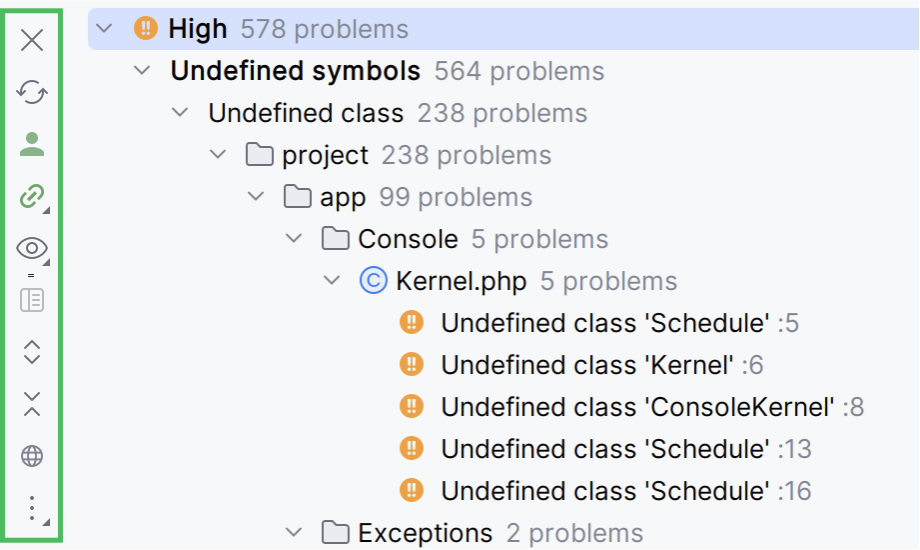
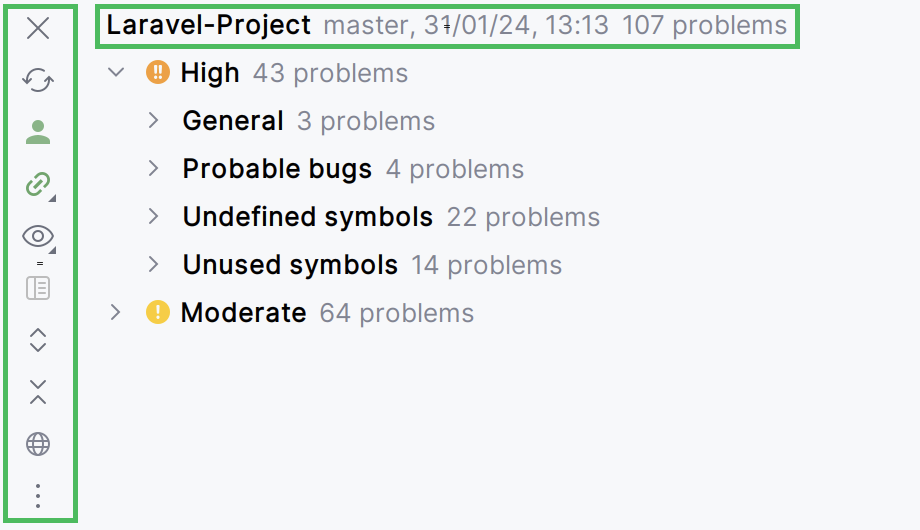
CDNET + Plugin + Quality gate updates

Changed region(s): [[0.0, 0.0, 1.0, 0.9962], [0.1522, 0.483, 0.9435, 0.7547], [0.3348, 0.7849, 0.8826, 0.9962]]

diff --git a/topics/qodana-dotnet-community.md b/topics/qodana-dotnet-community.md
@@ -24,8 +24,8 @@ It brings all the smarts from ReSharper, which help you:
 
 <note>This linter requires the Qodana Cloud <a href="project-token.md">project token</a>.</note>
 
-%linter% provides inspections for the C, C++, C# and VB.NET programming languages.
-C and C++ inspections of %linter% are limited by projects containing `.sln` solution files or `.csproj` project files.
+%linter% lets you inspect .NET Core projects that use the C# and Visual Basic.NET (VB.NET) languages. 
+It also supports C/C++ inspections for projects containing `.sln` solution files.
 
 ## Supported features
 
@@ -35,17 +35,93 @@ C and C++ inspections of %linter% are limited by projects containing `.sln` solu
 
 ### Prepare the project
 
-Because %linter% is licensed under the Community [license](pricing.md), it requires the
-Qodana Cloud [project token](project-token.md).  
+If you plan to run %linter% on a local machine, make sure that Docker on this machine is up and running. 
 
-Docker should also be up and running on the machine. 
+<p>By default, %product% tries to locate and employ a single solution file, or, if no solution file is present,
+it tries to find a project file. If your project contains multiple solution files, you need to specify the exact
+file name using the <code>--solution</code> option and a relative path to a solution file. For example, to
+    make %product% always analyze the <code>MySolution.sln</code> solution file, you can use:</p>
 
-<include src="lib_qd.xml" include-id="docker-dotnet-specific-solution-project" use-filter="empty,cdnet"/>
+%linter% requires the relative path to a solution or a project file from the repository root. 
+
+You can configure it using either the `qodana.yaml` file or the `--solution` CLI option:
+
+<tabs>
+<tab id="qodana-cdnet-solution-specify-qodana-yaml" title="qodana.yaml">
+<code style="block" lang="yaml">
+dotnet:
+&nbsp;&nbsp;solution: &lt;relative-path-to-solution-file&gt;
+</code>
+</tab>
+<tab id="qodana-cdnet-solution-specify-cli" title="CLI option">
+<code style="block" lang="shell">
+--solution=&lt;relative-path-to-solution-file&gt;
+</code>
+</tab>
+</tabs>
+
+If your project contains no solution files and multiple project files, you need to use the `--project` option and a 
+relative path to a project file. For example, for the `MyProject.csproj` project file you can use:
+
+<tabs>
+<tab id="qodana-cdnet-project-config-qodana-yaml" title="qodana.yaml">
+<code style="block" lang="yaml">
+dotnet:
+&nbsp;&nbsp;project: MyProject.csproj
+</code>
+</tab>
+<tab id="qodana-cdnet-project-config-cli" title="CLI option">
+<code style="block" lang="shell">
+--project=MyProject.csproj
+</code>
+</tab>
+</tabs>
 
 The %linter% does not support inspection configuration using the [`qodana.yaml`](qodana-yaml.md) file.
-You can use `.editorconfig` and [`.DotSettings`](%dotsettings%) files for these purposes. Besides that, %linter% supports Roslyn analyzers, 
-with each analyzer considered as a separate inspection. You can configure Roslyn analyzers using the `.editorconfig` 
+You can use `.editorconfig` and [`.DotSettings`](%dotsettings%) files for these purposes. Besides that, %linter% supports Roslyn analyzers,
+with each analyzer considered as a separate inspection. You can configure Roslyn analyzers using the `.editorconfig`
 files. This is an experimental feature, so use them at your own risk.
+
+#### Configure a solution
+
+A solution configuration defines which projects in the solution to build, and which project configurations to use for 
+specific projects within the solution.
+
+Each newly created solution includes the `Debug` and `Release` configurations, which can be complemented by your custom 
+configurations.
+
+You can switch configurations of the current solution using either `qodana.yaml` or the `--property` CLI option. For 
+example, use this to switch to the `Release` configuration:
+
+<tabs>
+<tab id="qodana-cdnet-solution-config-qodana-yaml" title="qodana.yaml">
+<code style="block" lang="yaml">
+dotnet:
+&nbsp;&nbsp;configuration: Release
+</code>
+</tab>
+<tab id="qodana-cdnet-solution-config-cli" title="CLI option">
+<code style="block" lang="shell">
+--property=qodana.net.configuration=Release
+</code>
+</tab>
+</tabs>
+
+By default, the solution platform is set to `Any CPU`, and you can override it the following ways: </p>
+
+<tabs>
+<tab id="qodana-cdnet-platform-config-qodana-yaml" title="qodana.yaml">
+<code style="block" lang="yaml">
+dotnet:
+&nbsp;&nbsp;platform: x86
+</code>
+</tab>
+<tab id="qodana-cdnet-platform-config-cli" title="CLI option">
+<code style="block" lang="shell">
+--property=qodana.net.platform=x86
+</code>
+</tab>
+</tabs>
 
 ### Build the project
 

diff --git a/topics/qodana-ide-plugin.md b/topics/qodana-ide-plugin.md
@@ -67,6 +67,10 @@ latest %product% report and overview it.
       <p>Select the <a href="cloud-projects.xml">Qodana Cloud project</a> to link your local project with.</p>
       <img src="ide-plugin-connect-2.png" dark-src="ide-plugin-connect-2_dark.png" width="706" alt="Linking the project to Qodana Cloud" border-effect="line"/>
    </step>
+   <step>
+        <p>By enabling the <menupath>Always load most relevant Qodana report</menupath> option, you can get actual reports automatically retrieved from Qodana Cloud.</p>
+      <img src="ide-plugin-connect-3.png" dark-src="ide-plugin-connect-3_dark.png" width="706" alt="Enabling to load the most relevant reports" border-effect="line"/>
+    </step> 
     <step>
        <p>In the <menupath>Server-Side Analysis</menupath> tool window, overview <a anchor="ide-plugin-study-reports">inspection results</a>.</p>
     </step>
@@ -118,9 +122,10 @@ containing such problems.
 
 <img src="ide-plugin-report-navigating.png" dark-src="ide-plugin-report-navigating_dark.png" width="706" alt="Navigating to problems in the IDE" animated="true" border-effect="line"/>
 
+The upper part contains information about the project and branch names, the inspection date, and the number of problems. 
 The left part of the **Server-Side Analysis** tool window contains several buttons. 
 
-<img src="ide-plugin-report-navigating-buttons.png" dark-src="ide-plugin-report-navigating-buttons_dark.png" width="460" alt="Buttons in the Server-Side Analysis tool window" border-effect="line"/>
+<img src="ide-plugin-report-navigating-buttons.png" dark-src="ide-plugin-report-navigating-buttons_dark.png" width="460" alt="Functionalities of the Server-Side Analysis tool window" border-effect="line"/>
 
 This table describes each button from top to bottom:
 

diff --git a/topics/qodana-yaml.md b/topics/qodana-yaml.md
@@ -321,9 +321,9 @@ You can specify the plugins that will be downloaded and invoked during inspectio
 plugins:
   - id: <plugin.id>
 ```
-Here, `<plugin-id>` denotes the plugin ID from [JetBrains Marketplace](https://plugins.jetbrains.com/). For example, 
-for [Grazie Professional](https://plugins.jetbrains.com/plugin/16136-grazie-professional) the Plugin ID will be 
-`com.intellij.grazie.pro`.
+Here, `<plugin-id>` denotes the Plugin ID from [JetBrains Marketplace](https://plugins.jetbrains.com/). For example, 
+for [Grazie Professional](https://plugins.jetbrains.com/plugin/16136-grazie-professional) the Plugin ID will be `com.intellij.grazie.pro`. To find the Plugin ID, on the plugin
+page click the **Overview** tab and then navigate to the **Additional Information** section.
 
 Plugin cache is stored in the `/data/cache/plugins` directory.
 
